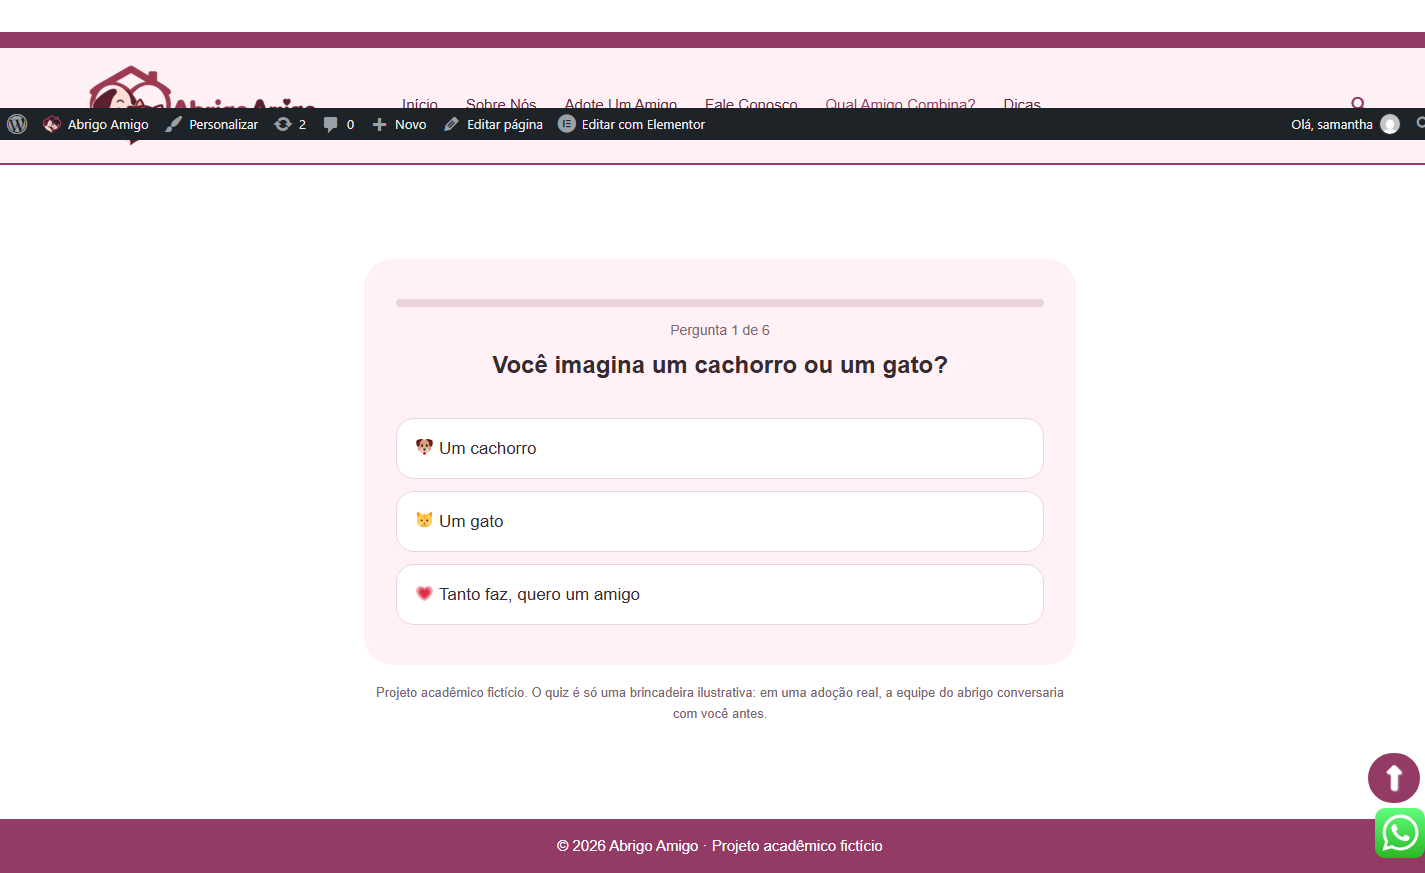
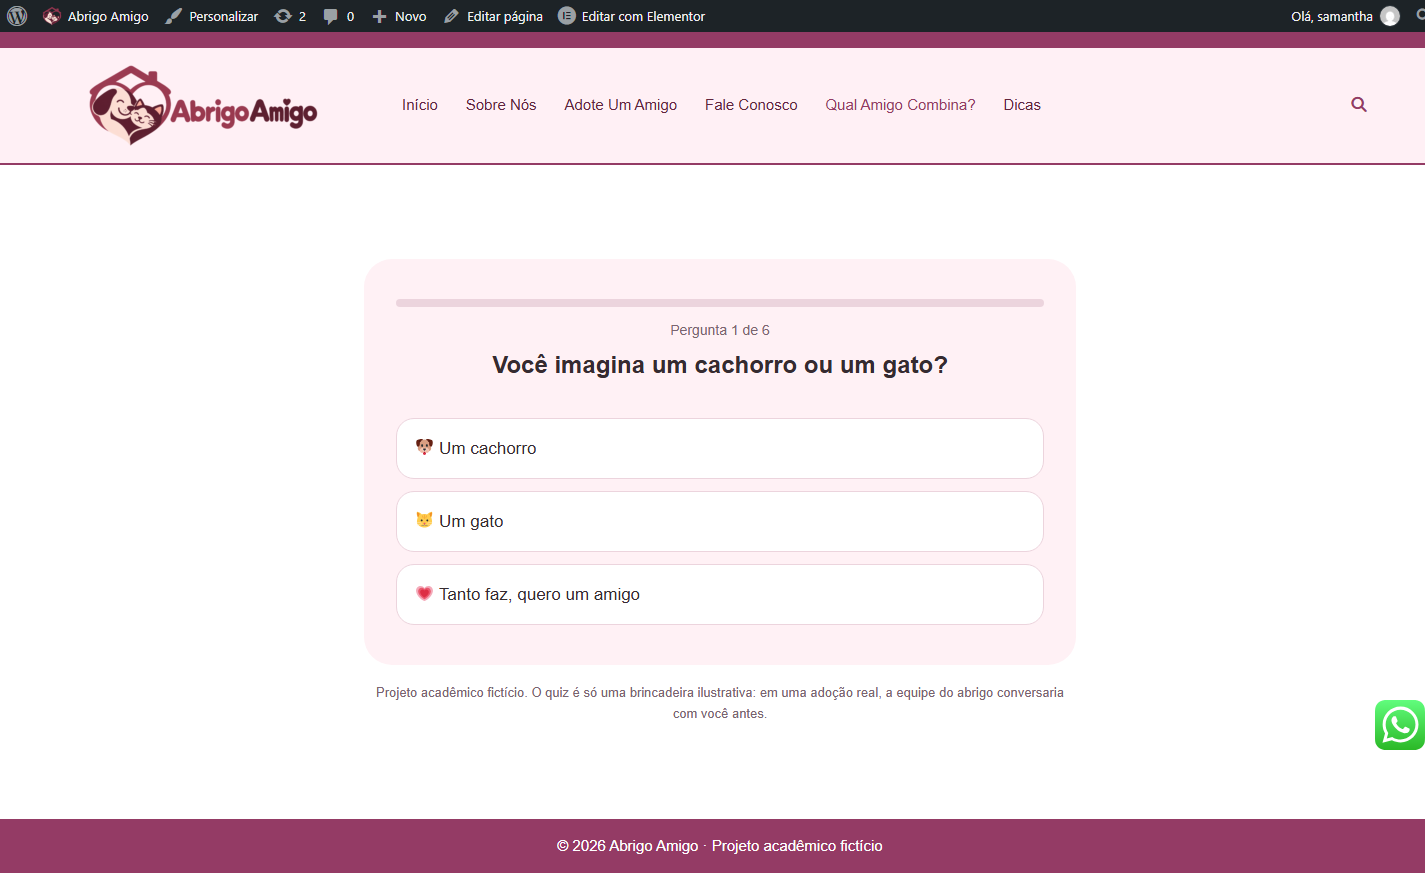
Correção das imagens do Quiz

Changed region(s): [[0.0, 0.1237, 1.0, 0.1856], [0.0, 0.0, 1.0, 0.0619], [0.9572, 0.8041, 1.0, 0.9897]]

diff --git a/README.md b/README.md
@@ -32,7 +32,7 @@ acolhedora, inspirada no aplicativo tinder, informações sobre adoção respons
 ![Guia de cuidados](screenshots/cuidados.png)
 
 ### Contato
-![Página de contato](screenshots/faleconosco.png)
+![Página de contato](screenshots/fale-conosco.png)
 
 ### Quiz
 ![Início do quiz](screenshots/quiz-inicio.png)
